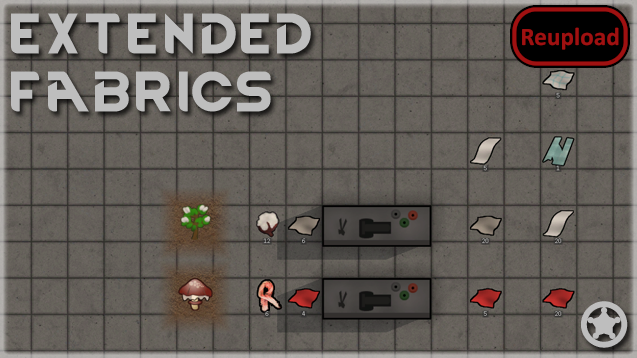
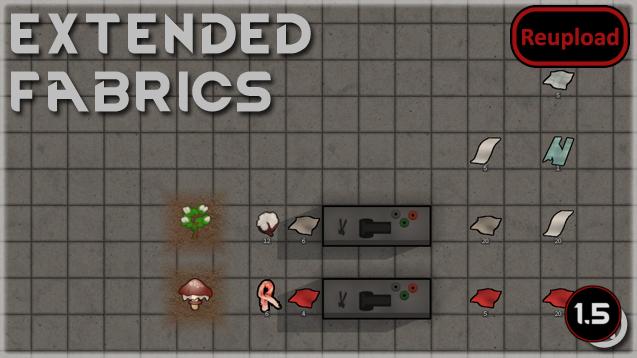
Mod updated for 1.5 and passed autotests

Changed region(s): [[0.865, 0.7989, 0.9843, 0.9832]]

diff --git a/README.md b/README.md
@@ -25,11 +25,13 @@ Credit to Telkir for the cotton boll texture.
 
 -  See if the the error persists if you just have this mod and its requirements active.
 -  If not, try adding your other mods until it happens again.
--  Post your error-log using https://steamcommunity.com/workshop/filedetails/?id=818773962]HugsLib and command Ctrl+F12
+-  Post your error-log using https://steamcommunity.com/workshop/filedetails/?id=818773962]HugsLib or the standalone https://steamcommunity.com/sharedfiles/filedetails/?id=2873415404]Uploader and command Ctrl+F12
 -  For best support, please use the Discord-channel for error-reporting.
 -  Do not report errors by making a discussion-thread, I get no notification of that.
 -  If you have the solution for a problem, please post it to the GitHub repository.
+-  Use https://github.com/RimSort/RimSort/releases/latest]RimSort to sort your mods
 
 
 
+https://steamcommunity.com/sharedfiles/filedetails/changelog/2240154090]![Image](https://img.shields.io/github/v/release/emipa606/ExtendedFabrics?label=latest%20version&style=plastic&color=9f1111&labelColor=black)
 
